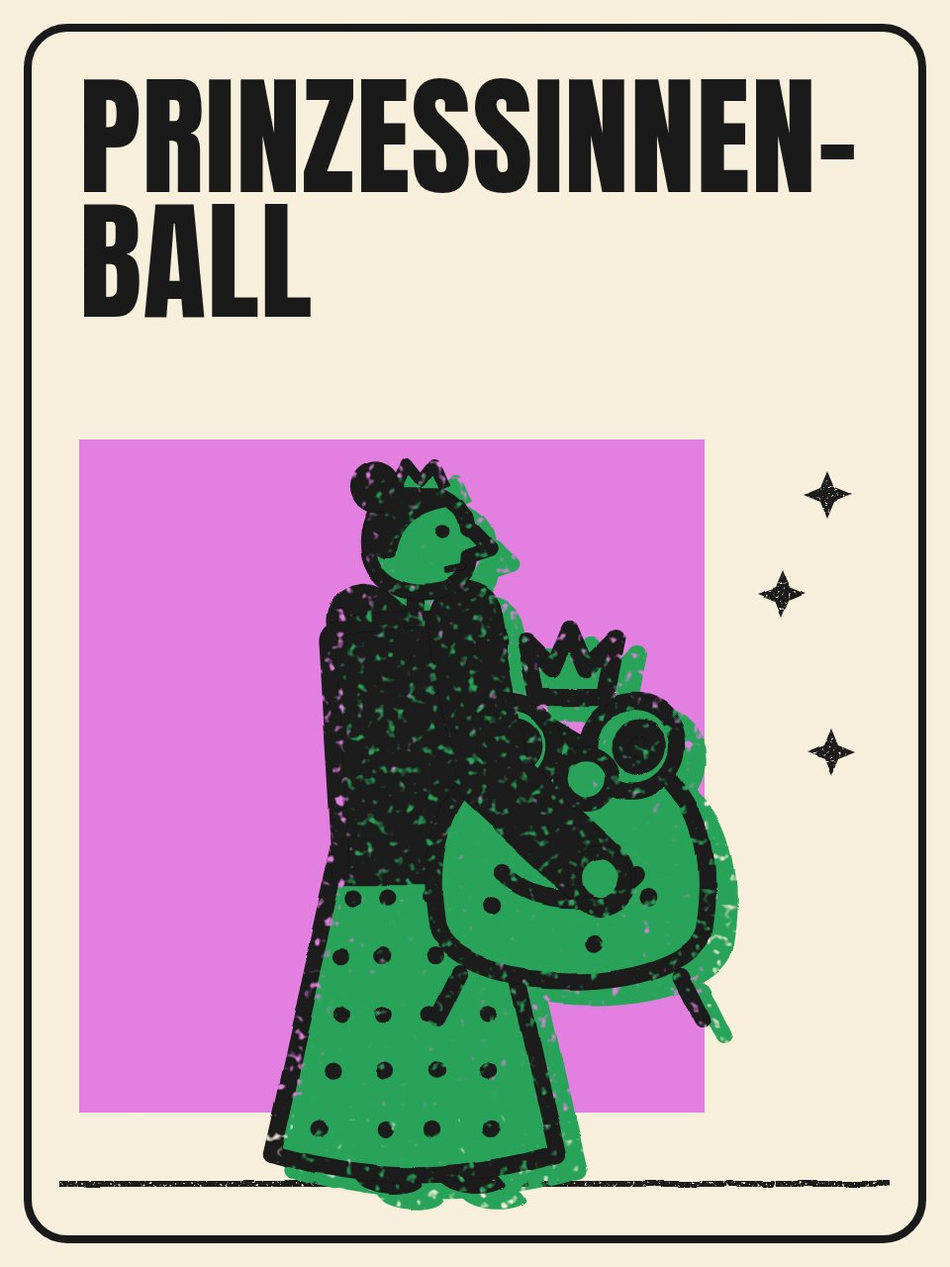
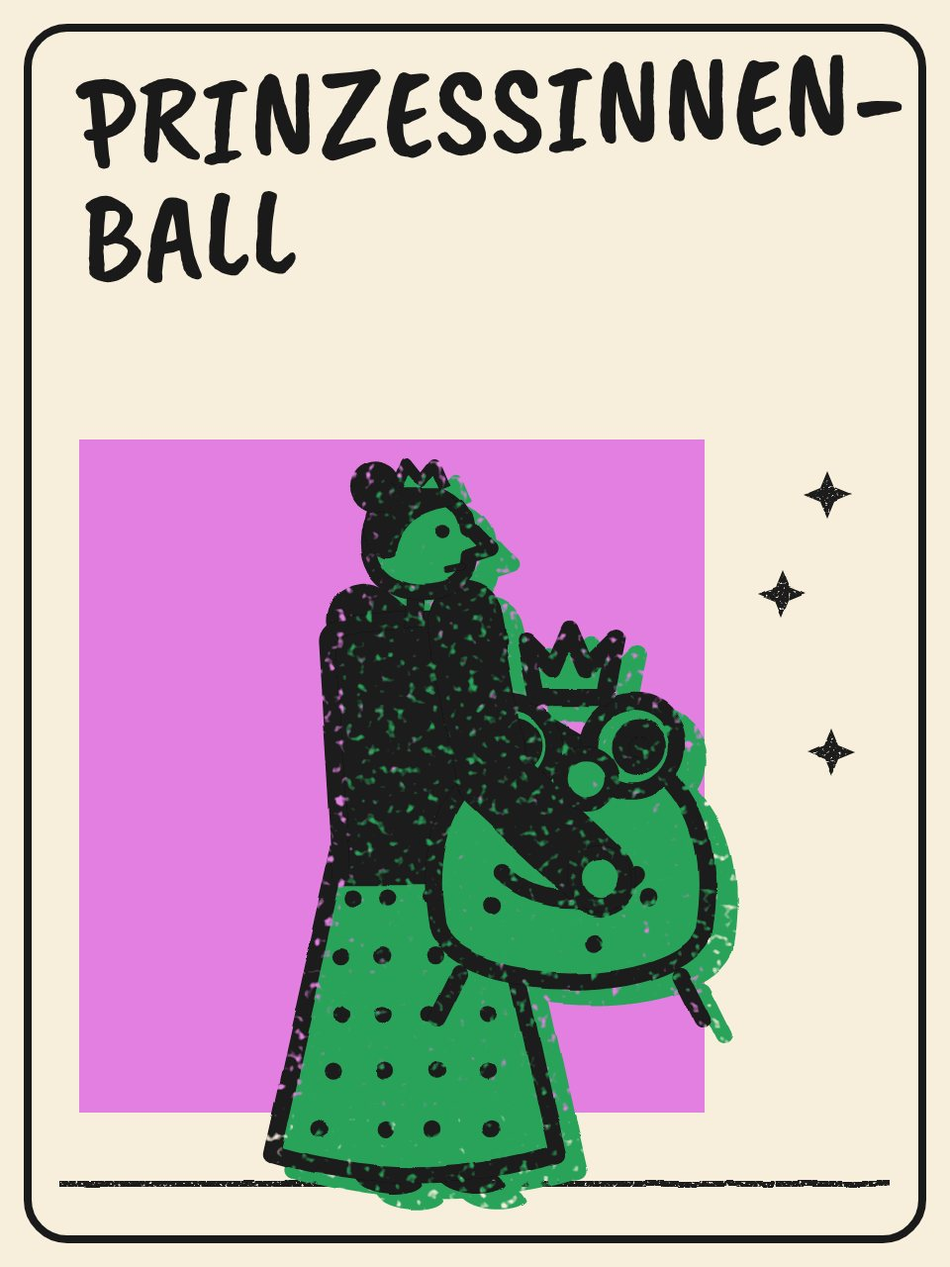
Typo Prinzessinnenball handschriftlich, Drei-Schwestern-Bilder zurück, Titel auf allen Covern, Drei-Schwestern-Bögen nach Regelheft
- Prinzessinnenball: Titel/Überschriften in Caveat Brush (Versalien) statt
  Anton, Cover-Titel handgeschrieben
- Drei Schwestern: Startbild und Cover wieder im Riso-Garten; App-Stil gilt
  nur für Typo/Oberfläche; Titel in DM Sans aufs Cover
- Grand Hotel Wien: Titel im Schild auf dem Hoteldach statt Sticker
- Drei Schwestern nach der Bogen-Abbildung im Regelheft (S. 2):
  Warenleiste 120 Felder mit Stern auf jedem 5., Kompost 40, Hauptstock
  Hof/Hof x2, Äpfel und Pfirsiche mit Wachstum, Himbeeren 1/2/3,
  Schuppen-Kästchen (Etiketten 4, Trimmer 3, Schubkarre 2, Mulch 1),
  Traktor 18 SP, Schnitzset 1 SP/Kürbis, Tulpe max 15; Rondell mit
  7 Feldern wie das Spielbrett

Claude-Session: https://claude.ai/code/session_01CofMMMC7P4qjXpmzNxeDE7

Changed region(s): [[0.0625, 0.0312, 0.9375, 0.25]]

diff --git a/three-sisters/index.html b/three-sisters/index.html
@@ -34,9 +34,8 @@ button{font:inherit;color:inherit;background:none;border:0;padding:0;cursor:poin
 .start{padding-top:8px;text-align:left}
 .start h1{font-size:clamp(40px,12vw,56px);line-height:.95;margin:0 0 6px;color:var(--navy);letter-spacing:-2px}
 .sub{font-size:13.5px;color:var(--muted);margin:0 0 14px}
-.hero{width:100%;margin:0 auto;aspect-ratio:360/420;border-radius:32px;overflow:hidden;position:relative}
-.hero .htxt{position:absolute;left:24px;right:24px;top:26px}
-.hero .htxt p{margin:0;font-size:12.5px;color:rgba(43,50,69,.8);letter-spacing:.2px}
+.hero{width:100%;margin:0 auto;aspect-ratio:360/300;border-radius:32px;overflow:hidden;background:#F8ECE1}
+.start h1{margin-top:18px}
 .panel{background:var(--card);border-radius:28px;padding:18px;text-align:left;margin:14px 0}
 .label{font-size:12.5px;font-weight:500;color:var(--muted);margin:0 0 8px}
 .input{width:100%;font:inherit;font-size:16px;padding:11px 14px;border:0;border-radius:14px;background:var(--bg);color:var(--ink);outline:2px solid transparent}
@@ -81,7 +80,7 @@ button{font:inherit;color:inherit;background:none;border:0;padding:0;cursor:poin
 .banner b{display:block}
 .banner .small{font-size:12.5px;color:var(--muted)}
 /* Gartenmarkt */
-.rondel{display:grid;grid-template-columns:repeat(3,1fr);gap:10px}
+.rondel{display:grid;grid-template-columns:repeat(4,minmax(0,1fr));gap:8px}
 .space{border-radius:24px;padding:8px 6px;text-align:center;min-height:124px;position:relative}
 .space .sic{width:44px;height:40px;margin:0 auto}
 .space .sn{font-size:11.5px;font-weight:700;line-height:1.15;min-height:26px;color:var(--ink)}
@@ -370,26 +369,26 @@ const gHead = (seed, o) => gardener(seed, o, '6 -4 88 70');
 // Ablauf, Aktionen, Ereignisse, Markttabelle, Stauden, Bienenstock, Hof,
 // Schuppen und Wertung folgen dem Regelheft. Der Aufdruck der Wertungsbögen
 // (Pflanzen je Zone, Kürbis-Ring mit Stauden, Hof-Reihen, Schuppen-Kästchen)
-// ist von Fotos der Original-Bögen abgelesen, die der Owner geschickt hat.
-// Unsicher abgelesen: Waren der beiden 2-hohen Kürbisse, die Sterne der
-// Warenleiste (Fotos nicht scharf genug, weiterhin geschätzt).
+// ist von der Bogen-Abbildung auf der Materialseite (S. 2) des Regelhefts der
+// Harvest Edition abgelesen; die Fotos des Owners zeigen teils eine ältere
+// Bogen-Version (Traktor 15, Mulch 2), maßgeblich ist das Regelheft.
 const ROUNDS = 8;
 const EVENTS = ['shed', 'rain', 'market', 'rain', 'market', 'shed', 'market', 'rain'];
 const EVENT_N = { shed: 'Schuppen: 1 Schuppenaktion', rain: 'Regen: Zonen 1–6 gießen', market: 'Bauernmarkt: Markttabelle' };
-// Aktionsrondell im Uhrzeigersinn; Feld 0 trägt die goldene Nadel (Start von Farmerin Edith)
+// Aktionsrondell im Uhrzeigersinn (7 Felder wie auf dem Spielbrett, Beispiel S. 4 des Regelhefts);
+// Feld 0 trägt die goldene Nadel (Start von Farmerin Edith)
 const RONDEL = [
   { k: 'ay', pin: 1, blue: 'apiary' },
   { k: 'pw' },
   { k: 'shed', tool: 'A' },
   { k: 'cg' },
   { k: 'ay', blue: 'yard' },
-  { k: 'market' },
   { k: 'shed', tool: 'B' },
-  { k: 'pw' },
+  { k: 'market' },
 ];
 const RONDEL_N = { ay: 'Bienenstock oder Hof', pw: 'Pflanzen oder Gießen', shed: 'Schuppenzeit', cg: '1 Kompost & 4 Waren', market: 'Bauernmarkt' };
 const RONDEL_BG = { ay: '#E8DCC0', pw: '#D5DDCF', shed: '#CFD9E4', cg: '#E3D2C6', market: '#E3D3DA' };
-const RING = [0, 1, 2, 3, 7, 6, 5, 4]; // Anzeige als Ring in zwei Reihen
+const RING = [1, 2, 3, 4, 0, 6, 5]; // Anzeige wie das Brett: oben 4 Felder, unten 3 (im Uhrzeigersinn)
 const DICE_BY_N = { 1: 4, 2: 4, 3: 5, 4: 6 };
 // Gartenzonen wie auf dem Bogen: jeder Mais (4 Kästchen) hat eine Bohne (2 Kästchen) daneben.
 // Die Kürbisse liegen als Ring am Gartenrand (im Uhrzeigersinn ab Zone 1 oben), zwischen je zwei
@@ -424,20 +423,20 @@ const EFFECT_N = {
 };
 const EFFECT_S = { yard: 'Hof', peach2: 'Pf+2', plantAny: '🌱', 'fruit:apple': 'Apf', 'fruit:blackberry': 'Bro', 'fruit:raspberry': 'Him', 'fruit:peach': 'Pfi', compost1: '+1K', compost2: '+2K', irisAdj: '±1', apiary2: '2🐝', goods2: '+2W', shed: 'Sch', yard1: 'Hof', yard2: '2Hof', vp3: '3', yard3: '3Hof', pw2: '2🌱' };
 // Bienenstock: erst der Hauptstock, danach drei Abschnitte in beliebiger Reihenfolge
-const HIVE = ['', 'yard1', '', 'yard1', 'yard2'];
+const HIVE = ['', 'yard1', '', 'yard2', ''];
 const WAX_GOODS = [2, 4, 4], WAX_VP = [2, 2, 5], HONEY_VP = [5, 5, 8];
 const SPLIT = ['vp3', 'plantAny', 'yard3', 'pw2'];
 const API_N = { wax: 'Wachs', honey: 'Honig', split: 'Ableger' };
 // Hof: Reihen von links nach rechts, jedes Kästchen ist eine Ernte
 // steps: g = Wachstum (Quadrat auf dem Bogen), h = Ernte (Kreis)
 const FRUITS = [
-  { k: 'apple', n: 'Äpfel', one: 'Apfel', steps: 'ghghhhhh', tx: '3 SP je Apfel-Ernte; die ersten beiden Bäume brauchen je 1 Wachstum' },
+  { k: 'apple', n: 'Äpfel', one: 'Apfel', steps: 'hghhhhh', tx: '3 SP je Apfel; vor der 2. Ernte 1 Wachstum' },
   { k: 'blackberry', n: 'Brombeeren', one: 'Brombeere', steps: 'hhhhhhh', tx: '2 SP je Brombeere' },
-  { k: 'peach', n: 'Pfirsiche', one: 'Pfirsich', steps: 'ghghghgh', tx: 'jeder Baum: 1 Wachstum, dann Ernte = 1 Gießaktion, Zone frei' },
-  { k: 'raspberry', n: 'Himbeeren', one: 'Himbeere', steps: 'hhhhhhhhh', tx: 'Ernte: +3 Waren · 1/2/5 SP nach 3/6/9 Ernten' },
+  { k: 'peach', n: 'Pfirsiche', one: 'Pfirsich', steps: 'hghghgh', tx: 'Ernte: 1 Gießaktion, Zone frei; zwischen den Ernten je 1 Wachstum' },
+  { k: 'raspberry', n: 'Himbeeren', one: 'Himbeere', steps: 'hhhhhhhhh', tx: 'Ernte: +3 Waren · 1/2/3 SP nach 3/6/9 Ernten' },
 ];
 FRUITS.forEach(f => { f.len = f.steps.length; });
-const RASP_VP = { 3: 1, 6: 2, 9: 5 };
+const RASP_VP = { 3: 1, 6: 2, 9: 3 };
 const harvests = (p, k) => [...FRUITS.find(f => f.k === k).steps.slice(0, Math.max(0, p.yard[k].n))].filter(c => c === 'h').length;
 // Schuppen: Satz A (Schere) und B (Mäher) entsprechen den Listen von Farmerin Edith
 const SHED = [
@@ -447,23 +446,23 @@ const SHED = [
   { k: 'bowl', n: 'Obstschale', len: 3, vp: 0, set: 'A', tx: '1/4/7/10 SP für 1/2/3/4 Obstsorten.' },
   { k: 'barrel', n: 'Regentonne', len: 2, vp: 2, set: 'A', tx: 'Nach jedem Regen: 1 Gießaktion, Zone frei.' },
   { k: 'dish', n: 'Auflaufform', len: 2, vp: 0, set: 'A', tx: '1 SP je 2 geerntete Bohnen.' },
-  { k: 'labels', n: 'Schicke Etiketten', len: 3, vp: 2, set: 'B', tx: 'Bauernmarkt: +1 Staudenaktion.' },
+  { k: 'labels', n: 'Schicke Etiketten', len: 4, vp: 2, set: 'B', tx: 'Bauernmarkt: +1 Staudenaktion.' },
   { k: 'hivetool', n: 'Stockmeißel', len: 3, vp: 2, set: 'B', tx: 'Krokus-Aktion: +1 Bienenstock-Aktion.' },
   { k: 'pitchfork', n: 'Heugabel', len: 1, vp: 1, set: 'B', tx: 'Hortensien-Aktion: +1 Kompost.' },
-  { k: 'trimmer', n: 'Rasentrimmer', len: 4, vp: 6, set: 'B', tx: 'Kein Effekt.' },
-  { k: 'wheelbarrow', n: 'Schubkarre', len: 3, vp: 3, set: 'B', tx: 'Jede Schuppenaktion: +1 Ware.' },
-  { k: 'mulch', n: 'Mulch', len: 2, vp: 0, set: 'B', tx: 'Statt der Rondellaktion 2 Staudenaktionen.' },
-  { k: 'tractor', n: 'Neuer Traktor', len: 6, vp: 15, set: '', tx: 'Kein Effekt.' },
-  { k: 'carving', n: 'Schnitzset', len: 4, vp: 0, set: '', tx: 'Am Ende 1 SP je geerntetem Kürbis in deiner längsten Kürbis-Kette im Ring.' },
+  { k: 'trimmer', n: 'Rasentrimmer', len: 3, vp: 6, set: 'B', tx: 'Kein Effekt.' },
+  { k: 'wheelbarrow', n: 'Schubkarre', len: 2, vp: 3, set: 'B', tx: 'Jede Schuppenaktion: +1 Ware.' },
+  { k: 'mulch', n: 'Mulch', len: 1, vp: 1, set: 'B', tx: 'Rondellaktion verfallen lassen, dafür 1 Staudenaktion.' },
+  { k: 'tractor', n: 'Glänzender neuer Traktor', len: 6, vp: 18, set: '', tx: 'Kein Effekt.' },
+  { k: 'carving', n: 'Kürbis-Schnitzset', len: 3, vp: 0, set: '', tx: 'Am Ende 1 SP je geerntetem Kürbis.' },
   { k: 'spreader', n: 'Sämaschine', len: 4, vp: 2, set: '', tx: 'Beim Pflanzen: 1 Pflanze mehr (bis zu 3).' },
 ];
 const SHED_BY = k => SHED.find(s => s.k === k);
 // Warenleiste: Sterne bringen eine Bonusaktion; Markttabelle nach Warenstand
-const GOODS_MAX = 80;
-const STARS = [6, 12, 18, 25, 32, 40, 48, 56, 64, 72];
+const GOODS_MAX = 120;
+const STARS = Array.from({ length: 24 }, (_, i) => (i + 1) * 5); // Stern auf jedem 5. Feld (Bogen: 15 Felder je Zeile)
 const MARKET = [[70, ['per', 'per', 'bonus']], [50, ['per', 'per', 'yard']], [35, ['per', 'per', 'compost']], [20, ['per', 'yard']], [4, ['per', 'compost']], [0, ['compost']]];
 const MARKET_N = { per: 'Staude', yard: 'Hof', compost: 'Kompost', bonus: 'Bonus' };
-const COMPOST_MAX = 20;
+const COMPOST_MAX = 40;
 const SOLO_CHART = [[150, 'Du bekommst deine eigene TV-Show!'], [125, 'Dein Gartenbuch ist ein Bestseller!'], [100, 'Du bist eine Internet-berühmte Garten-Bloggerin!'], [80, 'Landesmeisterin im Gärtnern!'], [60, 'Deine Künste bringen dir ein blaues Band!'], [40, 'Du bist bereit für die Kreismesse!'], [0, 'Nächstes Mal klappt es besser!']];
 const BOT_NAMES = [
   ['Tante Rübe', { plant: 'tulpe', pants: '#F07A2A', pat: 'dots' }],
@@ -553,24 +552,6 @@ function dieSvg(v, fill = '#FFFBF5') {
   return `<svg viewBox="0 0 24 25" aria-label="Würfel ${v}"><rect x="2" y="3.5" width="20" height="20" rx="6" fill="${shade(fill === '#FFFBF5' ? '#EAD9C8' : fill, 0.85)}"/><rect x="2" y="2" width="20" height="20" rx="6" fill="${fill}"/>${Pp[v].map(([x, y]) => `<circle cx="${x}" cy="${y}" r="2" fill="${pip}"/>`).join('')}</svg>`;
 }
 function zoneNum(z) { const cols = [C.tomato, C.leaf, C.mustard, C.blue, C.rose, C.forest]; return `<svg viewBox="0 0 26 26" class="ill"><circle cx="13" cy="13" r="12" fill="${cols[z]}"/><text x="13" y="18" text-anchor="middle" font-family="Fredoka,sans-serif" font-weight="700" font-size="15" fill="#fff">${z + 1}</text></svg>`; }
-// Startbild im App-Stil: gedeckte Farbbänder, flache geometrische Scheune, kleine Gärtnerinnen am Horizont
-function bandsSvg() {
-  const bands = [[0, 64, '#7FA3C6'], [64, 124, '#88AACA'], [124, 176, '#95B1CC'], [176, 216, '#A6B9CC'], [216, 246, '#B9C3CD'], [246, 264, '#CAC5C6'], [264, 280, '#DCC6BB']];
-  const field = [[288, 300, '#5E6E9A'], [300, 308, '#A496AB'], [308, 322, '#6C7BA6'], [322, 330, '#B7AABD'], [330, 346, '#7584AD'], [346, 356, '#C2B7C5'], [356, 420, '#8A7867']];
-  const fig = (o, x, w) => gardener('band' + o.plant, o).replace('<svg viewBox="0 0 100 130" class="ill"', `<svg viewBox="0 0 100 130" x="${x}" y="${286 - w * 1.24}" width="${w}" height="${w * 1.3}" overflow="visible"`);
-  const corn = x => `<rect x="${x - 1.2}" y="306" width="2.4" height="44" fill="#4B3C33"/><path d="M${x},318 l-9,-6 l0,4 Z M${x},330 l9,-6 l0,4 Z M${x},340 l-8,-5 l0,4 Z" fill="#4B3C33"/><rect x="${x - 2.4}" y="300" width="4.8" height="9" fill="#E0B04A"/>`;
-  return `<svg viewBox="0 0 360 420" class="ill" preserveAspectRatio="xMidYMid slice" role="img" aria-label="Illustration: flache Landschaft in Farbbändern mit roter Scheune, Maisstauden und drei kleinen Gärtnerinnen am Horizont">
-    ${bands.map(([a, b, c]) => `<rect x="0" y="${a}" width="360" height="${b - a}" fill="${c}"/>`).join('')}
-    <rect x="0" y="280" width="360" height="8" fill="#2B3245"/>
-    ${field.map(([a, b, c]) => `<rect x="0" y="${a}" width="360" height="${b - a}" fill="${c}"/>`).join('')}
-    <rect x="208" y="246" width="42" height="36" fill="#A8382F"/>
-    <path d="M250,246 L278,226 L306,246 V282 H250 Z" fill="#2A1E1E"/>
-    <path d="M208,246 L236,226 L278,226 L250,246 Z" fill="#E5C9BC"/>
-    <rect x="72" y="268" width="26" height="14" fill="#3B3F55"/><path d="M72,268 L85,259 L98,268 Z" fill="#C9B8A6"/>
-    ${fig({ plant: 'mais', pants: '#E0B04A', pat: 'stripes', pose: 0 }, 128, 22)}${fig({ plant: 'bohne', pants: '#5E6E9A', pat: 'stripes', pose: 1 }, 150, 24)}${fig({ plant: 'kuerbis', pants: '#A8382F', pat: 'dots', pose: 0 }, 174, 22)}
-    ${[34, 48, 62, 300, 314, 328].map(corn).join('')}
-  </svg>`;
-}
 function heroSvg() {
   const fig = (o, x, y, w) => gardener('hero' + o.plant, o).replace('<svg viewBox="0 0 100 130" class="ill"', `<svg viewBox="0 0 100 130" x="${x}" y="${y}" width="${w}" height="${w * 1.3}" overflow="visible"`);
   const dots = (cx, cy, rx, ry, col, n, seed) => { const r = prng(seed); let s = ''; for (let i = 0; i < n; i++) { const a = r() * Math.PI * 2, d = Math.sqrt(r()); s += `<circle cx="${(cx + Math.cos(a) * rx * d).toFixed(1)}" cy="${(cy + Math.sin(a) * ry * d).toFixed(1)}" r="${2.6 + r() * 1.6}" fill="${col}"/>`; } return s; };
@@ -746,14 +727,6 @@ function growCrop(p, z, k, i) {
   }
 }
 function pumpDone(p, r) { const [z, i] = PUMP_LOC[r]; return p.g[z].s[i] === PUMPS[r].h; }
-// längste Kette geernteter Nachbar-Kürbisse im Ring (Schnitzset)
-function pumpChain(p) {
-  const n = PUMPS.length, d = range(n).map(r => pumpDone(p, r));
-  if (d.every(Boolean)) return n;
-  let best = 0, cur = 0;
-  for (let k = 0; k < 2 * n; k++) { cur = d[k % n] ? cur + 1 : 0; best = Math.max(best, Math.min(cur, n)); }
-  return best;
-}
 const plantMax = p => shedDone(p, 'spreader') ? 3 : 2;
 function doPlant(p, z, list) {
   let n = 0;
@@ -786,12 +759,12 @@ function endScore(p) {
     zo.b.forEach(h => { if (h === BEAN_H) { row.garden += 1; beans++; } });
   });
   const yardItems = FRUITS.reduce((s, f) => s + harvests(p, f.k), 0);
-  for (const f of FLOWERS) if (p.per[f].n >= PER_LEN) row.per += PER[f].vp === 'yard' ? yardItems : PER[f].vp;
+  for (const f of FLOWERS) if (p.per[f].n >= PER_LEN) row.per += PER[f].vp === 'yard' ? Math.min(15, yardItems) : PER[f].vp;
   row.api = WAX_VP.slice(0, p.api.wax.n).reduce((a, b) => a + b, 0) + HONEY_VP.slice(0, p.api.honey.n).reduce((a, b) => a + b, 0) + (p.api.split.n >= 1 ? 3 : 0);
   row.yard = harvests(p, 'apple') * 3 + harvests(p, 'blackberry') * 2 + Object.entries(RASP_VP).reduce((s, [k, v]) => s + (harvests(p, 'raspberry') >= +k ? v : 0), 0);
   for (const it of SHED) if (shedDone(p, it.k)) {
     if (it.k === 'bowl') row.shed += [0, 1, 4, 7, 10][FRUITS.filter(f => harvests(p, f.k) > 0).length];
-    else if (it.k === 'carving') row.shed += pumpChain(p);
+    else if (it.k === 'carving') row.shed += range(PUMPS.length).filter(r => pumpDone(p, r)).length;
     else if (it.k === 'dish') row.shed += Math.floor(beans / 2);
     else row.shed += it.vp;
   }
@@ -872,7 +845,7 @@ function taskOptions(p, t) {
     case 'bonus': out = perOpts(p).concat(apiaryOpts(p), yardOpts(p), shedOpts(p)); break;
     case 'rain': out = [{ o: 'rain', ic: 'regen', label: 'Alle Zonen 1–6 gießen', sub: shedDone(p, 'barrel') ? 'danach Regentonne: 1 Gießaktion' : 'Zone für Zone, von 1 bis 6', apply: q => { for (let z = 0; z < 6; z++) doWater(q, z); if (shedDone(q, 'barrel')) front(q, { t: 'waterAny', src: 'Regentonne' }); } }]; break;
   }
-  if (t.r && shedDone(p, 'mulch') && FLOWERS.some(f => p.per[f].n < p.per[f].cap)) out.push({ o: 'mulch', ic: 'mulch', label: 'Mulch: stattdessen 2 Staudenaktionen', sub: 'Rondellaktion verfällt', apply: q => front(q, { t: 'per', src: 'Mulch' }, { t: 'per', src: 'Mulch' }) });
+  if (t.r && shedDone(p, 'mulch') && FLOWERS.some(f => p.per[f].n < p.per[f].cap)) out.push({ o: 'mulch', ic: 'mulch', label: 'Mulch: stattdessen 1 Staudenaktion', sub: 'Rondellaktion verfällt', apply: q => front(q, { t: 'per', src: 'Mulch' }) });
   return out;
 }
 function resolveTask(p, opt) { const t = p.tasks.shift(); if (opt) opt.apply(p); return t; }
@@ -1086,7 +1059,7 @@ function recordPlay() {
 }
 function spielregalProfiles() { try { return (JSON.parse(localStorage.getItem('spielregal:players') || '[]') || []).filter(p => p && p.name).map(p => p.name); } catch (e) { return []; } }
 const KEY = 'drei-schwestern-v1';
-const SAVE_V = 3; // v3: Bögen nach Fotos der Original-Bögen (Kürbis-Ring, Hof, Schuppen), ältere Stände sind nicht kompatibel
+const SAVE_V = 4; // v4: Bögen nach der Abbildung im Regelheft (Kürbis-Ring, Hof, Schuppen, Warenleiste), ältere Stände sind nicht kompatibel
 // Speichern & Verlassen: Der Spielstand wird ohnehin nach jeder Aktion
 // gespeichert; „verlassen“ führt zurück zum Startbildschirm, von dem aus die
 // Partie mit „Fortsetzen“ weiterläuft.
@@ -1152,8 +1125,9 @@ function viewStart() {
   const saved = load(); const st = U.setup; const prof = spielregalProfiles();
   return `<div class="wrap start">
     <div class="startbar"><a class="icobtn leave" href="../" aria-label="Beenden und zurück zu Spielregal"><svg viewBox="0 0 20 20" width="13" height="13" aria-hidden="true"><path d="M4.5 4.5l11 11M15.5 4.5l-11 11" stroke="currentColor" stroke-width="2.6" stroke-linecap="round"/></svg><span>Beenden</span></a></div>
-    <div class="hero">${bandsSvg()}<div class="htxt"><h1 class="hand">Drei Schwestern.</h1><p>8 Runden · Harvest Edition · Roll &amp; Write</p></div></div>
-    <p class="sub" style="margin-top:14px">Mais, Bohnen &amp; Kürbis: das Roll &amp; Write nach den Regeln von <i>Three Sisters</i> (Harvest Edition).</p>
+    <div class="hero">${heroSvg()}</div>
+    <h1 class="hand">Drei Schwestern.</h1>
+    <p class="sub">8 Runden · Harvest Edition · Roll &amp; Write<br>Mais, Bohnen &amp; Kürbis: das Roll &amp; Write nach den Regeln von <i>Three Sisters</i> (Harvest Edition).</p>
     ${saved && saved.screen === 'game' ? `<button class="btn blue wide" data-a="resume">Partie fortsetzen · Runde ${saved.round}/${ROUNDS}</button><p style="margin:6px 0 0;font-size:12.5px;opacity:.75">${saved.savedAt ? `Gespeichert ${savedLabel(saved)} · ` : ''}<button class="link" data-a="discard" style="font-size:12.5px">verwerfen</button></p>` : ''}
     <div class="panel">
       <p class="label">Dein Name</p>
@@ -1302,7 +1276,7 @@ function rulesHtml() {
   <h4>Solo gegen Farmerin Edith</h4>
   <p>Du und Edith nehmt abwechselnd je zwei Würfel (ungerade Runden beginnst du). Die Startperson muss als zweiten Würfel den niedrigsten übrigen nehmen. Edith streicht zuerst eine ungepflanzte Pflanze in der Zone ihres Würfels (Kürbisse, dann Mais, dann Bohnen), dann je nach Feld: noch eine Pflanze, einen Schuppen-Gegenstand, einen Stern der Warenleiste, ein Feld im Bienenstock oder Hof oder das oberste Feld einer Staude. Ereignisse betreffen nur dich.</p>
   <h4>Unterschiede zum Original</h4>
-  <p style="font-size:13px">Ablauf, Aktionen, Ereignisse, Markttabelle, Stauden-Boni, Bienenstock, Hof, Schuppen-Gegenstände, Wertung und der Solomodus mit Edith folgen der Anleitung der Harvest Edition. Den Aufdruck der Wertungsbögen nennt die Anleitung nicht; er ist von Fotos der Original-Bögen abgelesen: Pflanzen je Zone (3/5/4/3/5/4 Mais, je eine Bohne), der Ring aus 12 Kürbissen mit den Stauden dazwischen, die Hof-Reihen (Äpfel und Pfirsiche mit Wachstumsfeldern) und die Schuppen-Gegenstände samt Traktor, Schnitzset und Sämaschine. Weiterhin geschätzt: die Waren der beiden 2-hohen Kürbisse, die Sterne der Warenleiste, die Boni im Hauptstock und die Lage der Rondellfelder. Im Solomodus wählt Edith den Mais automatisch. Illustrationen sind eigene Entwürfe.</p>`;
+  <p style="font-size:13px">Ablauf, Aktionen, Ereignisse, Markttabelle, Stauden-Boni, Bienenstock, Hof, Schuppen-Gegenstände, Wertung und der Solomodus mit Edith folgen der Anleitung der Harvest Edition. Den Aufdruck der Wertungsbögen nennt die Anleitung nicht; er ist von Fotos der Original-Bögen abgelesen: Pflanzen je Zone (3/5/4/3/5/4 Mais, je eine Bohne), der Ring aus 12 Kürbissen mit den Stauden dazwischen, die Hof-Reihen (Äpfel und Pfirsiche mit Wachstumsfeldern), die Schuppen-Gegenstände samt Traktor, Schnitzset und Sämaschine, die Warenleiste (120 Felder, Stern auf jedem 5.) und 40 Kompostfelder – abgelesen von der Bogen-Abbildung im Regelheft. Das Rondell hat wie das Spielbrett 7 Felder. Im Solomodus wählt Edith den Mais automatisch. Illustrationen sind eigene Entwürfe.</p>`;
 }
 function viewSheet() {
   const sh = U.sheet; if (!sh) return '';

diff --git a/rebel-princess/index.html b/rebel-princess/index.html
@@ -9,7 +9,7 @@
 <title>Prinzessinnenball</title>
 <link rel="preconnect" href="https://fonts.googleapis.com">
 <link rel="preconnect" href="https://fonts.gstatic.com" crossorigin>
-<link href="https://fonts.googleapis.com/css2?family=Anton&family=Caveat+Brush&family=Space+Mono:wght@400;700&display=swap" rel="stylesheet">
+<link href="https://fonts.googleapis.com/css2?family=Caveat+Brush&family=Space+Mono:wght@400;700&display=swap" rel="stylesheet">
 <style>
 :root{--ink:#1A1A1A;--paper:#F8EEDC;--white:#FFF8EC;--gray:#EADFCB;--muted:#6b665d;--pink:#FF5FA8;--peach:#F6B48F;--blue:#4A8FE0;--orange:#F08A2E;--stamp:#D2452B}
 *{box-sizing:border-box;-webkit-tap-highlight-color:transparent}
@@ -46,7 +46,7 @@ button{font:inherit;color:inherit;background:none;border:0;padding:0;cursor:poin
 .icobtn.leave{width:auto;padding:0 12px 0 10px;border-radius:999px;display:flex;align-items:center;gap:6px;font-size:13px;white-space:nowrap}
 .backlink{display:block;text-align:left;margin:4px 0 2px;font-weight:800;font-size:13.5px;color:inherit;text-decoration:none;opacity:.75}
 .rule{flex:1;border:2px solid var(--stamp);border-radius:8px;background:rgba(255,248,236,.6);color:var(--stamp);padding:4px 8px;font-size:11.5px;line-height:1.2;text-align:left;min-width:0;transform:rotate(-1.2deg)}
-.rule b{font-family:"Anton",Impact,sans-serif;text-transform:uppercase;font-size:13px;font-weight:400;letter-spacing:.4px;display:block;line-height:1.1}
+.rule b{font-family:"Caveat Brush",cursive;text-transform:uppercase;font-size:15px;font-weight:400;letter-spacing:.4px;display:block;line-height:1.1}
 /* Tisch */
 .opps{display:grid;grid-template-columns:1fr 1fr;gap:6px;margin-top:10px}
 .opp{display:flex;align-items:center;gap:6px;border:2px solid var(--ink);border-radius:14px;background:var(--white);padding:4px 6px 4px 4px;text-align:left;width:100%;min-width:0}
@@ -157,11 +157,13 @@ button{font:inherit;color:inherit;background:none;border:0;padding:0;cursor:poin
 .coach .cwait{font-weight:800;letter-spacing:3px}
 .tut-hl{outline:3px dashed var(--ink)!important;outline-offset:4px;animation:tutp 1s ease-in-out infinite;position:relative;z-index:6;border-radius:12px}
 @keyframes tutp{50%{outline-offset:7px}}
-.start h1,.sech h2,.round,.sheet h3,.rules h4,.podium .pl{font-family:"Anton",Impact,"Arial Narrow",sans-serif!important;font-weight:400!important;text-transform:uppercase;letter-spacing:.4px}
-.round{font-size:17px}
+/* Plakat-Handschrift wie die handgezeichneten Verpackungs-Titel der Referenz */
+.start h1,.sech h2,.round,.sheet h3,.rules h4,.podium .pl{font-family:"Caveat Brush","Comic Sans MS",cursive!important;font-weight:400!important;text-transform:uppercase;letter-spacing:.5px}
+.start h1{font-size:clamp(46px,14vw,68px);line-height:.9}
+.round{font-size:21px}
 .rule{min-width:80px;display:-webkit-box;-webkit-box-orient:vertical;-webkit-line-clamp:4;overflow:hidden}
-.sech h2{font-size:24px}
-.sheet h3{font-size:26px}
+.sech h2{font-size:28px}
+.sheet h3{font-size:30px}
 .why{position:relative;margin:10px 2px 0;font-size:12.5px;line-height:1.4;background:var(--white);border:1.5px solid var(--ink);border-radius:10px;padding:6px 9px}
 </style>
 </head>

diff --git a/CLAUDE.md b/CLAUDE.md
@@ -79,8 +79,8 @@ des jeweiligen Spiels treffen:
 | Spiel (Ordner) | Referenzen des Owners | Stilregeln |
 |---|---|---|
 | Grand Hotel Wien (`grand-austria-hotel/`) | Schwarz-weiße „Café People“-Strichfiguren (gilt laut Owner weiterhin auch hier, nur anders umgesetzt); bunte Sticker-Figuren mit Mustern; kreidig gemalte Figur mit Kobaltblau/Pink/Gelb | **Mix:** schwarze Tuschekonturen mit leichtem Zittern (`#wob`), gefüllt mit Kreidefarben (Rot, Kobaltblau, Senfgelb, Pink, Grün), Muster auf Kleidung, Körnung; harte Kanten mit Versatzschatten; Schriften Caveat Brush + Space Mono |
-| Prinzessinnenball (`rebel-princess/`) | (1) Gemalte Kreideskizze: Profil mit spitzer Nase, geschlossene Augen, schwarze Haarfläche; (2) „Café People“-Strichfiguren (vom Owner ausdrücklich kombiniert gewünscht) | **Kombination, schwarz-weiß:** Figuren wie Café People (ganze Körper, kleiner Profilkopf, breite schwarze Pullover/Röcke, Fausthände, Posen wie umarmen/tragen/knien/lümmeln, übergroße Gegenstände: Riesenapfel, Riesenfrosch, Riesenring …), gezeichnet im Kreidestrich mit Papiersprenkeln (`#crayon`); handgezogene Kartenrahmen (`#rough`), Prinzen als weiße Kreide auf Schwarz, warmer Papierton (jetzt `#F8EEDC`); Figuren schwarz-weiß, aber **Kartenfarben farbcodiert** (Owner-Wunsch für lesbare Stiche): Feen blau `#DCE7F7`/`#2F5BB0`, Haustiere grün `#DCEDD2`/`#3B8546`, Königinnen rot `#F8DCD3`/`#C4452E`, Prinzen schwarz mit Rosa `#F4A6B8`. **Zweiter Owner-Stil, ausdrücklich ergänzend („weiterer Style“):** Plakat-Illustrationen mit kräftigen Farbblöcken auf Cremepapier `#F8EEDC` und schwarzem Strich, Farbfläche leicht versetzt gedruckt (Banane/Taube). Umsetzung: Karten sind Creme mit Farbblock je Farbe (Feen `#4A8FE0`, Haustiere `#2BA35A`, Königinnen `#F0643C`, Prinzen schwarz); Figurenflächen in einer Pop-Farbe mit versetzter Silhouette (`popify`, Feen Creme, Haustiere Gelb, Königinnen Rosa, Prinzen Pink). Prinzessinnen auf wechselnden Farbblöcken (`POP_PAIRS`). Titel in Anton (Versalien), Rundenkarte als roter Stempel `#D2452B`, Versatzschatten in Pink/Blau statt Grau; Tisch als Pfirsich-Block `#F6B48F` |
-| Drei Schwestern (`three-sisters/`) | Frau mit Blumenstrauß statt Kopf und gestreifter Hose; „Garden Party“-Pack mit flachen Pflanzen und Tieren; Risograph-Gartenlandschaft | **Flach ohne Konturen:** keine schwarzen Umrisse, Details im dunkleren Ton derselben Farbe, Risograph-Körnung mit weichen Kanten (`#riso`), Pfirsich-Creme-Grund `#F8ECE1`, frische Garten-Palette; Figuren mit Pflanzenstrauß statt Kopf; Illustrationen weiter mit Fredoka-Anmutung. **App-Oberfläche** nach Owner-Referenzen „App Style für Three Sisters“ (minimalistische Homescreens): gedeckte Farbbänder (Staubblau `#7FA3C6`…`#B9C3CD`, Pfirsich `#DCC6BB`, Schiefer `#5E6E9A`, Mauve `#A496AB`, Erde `#8A7867`), flache geometrische Landschaft mit Scheune (Rot `#A8382F`/fast Schwarz) im Startbild (`bandsSvg`), lichtgrauer Grund `#E9E6E8`, Karten `#F7F5F6` ohne 3D-Schatten, Marineblau `#2B3245` für Schrift, Knöpfe und „du bist dran“ (Staubblau), gedämpfte Zonen-/Rondellflächen; große klare Titel mit Punkt („Drei Schwestern.“), Schrift DM Sans |
+| Prinzessinnenball (`rebel-princess/`) | (1) Gemalte Kreideskizze: Profil mit spitzer Nase, geschlossene Augen, schwarze Haarfläche; (2) „Café People“-Strichfiguren (vom Owner ausdrücklich kombiniert gewünscht) | **Kombination, schwarz-weiß:** Figuren wie Café People (ganze Körper, kleiner Profilkopf, breite schwarze Pullover/Röcke, Fausthände, Posen wie umarmen/tragen/knien/lümmeln, übergroße Gegenstände: Riesenapfel, Riesenfrosch, Riesenring …), gezeichnet im Kreidestrich mit Papiersprenkeln (`#crayon`); handgezogene Kartenrahmen (`#rough`), Prinzen als weiße Kreide auf Schwarz, warmer Papierton (jetzt `#F8EEDC`); Figuren schwarz-weiß, aber **Kartenfarben farbcodiert** (Owner-Wunsch für lesbare Stiche): Feen blau `#DCE7F7`/`#2F5BB0`, Haustiere grün `#DCEDD2`/`#3B8546`, Königinnen rot `#F8DCD3`/`#C4452E`, Prinzen schwarz mit Rosa `#F4A6B8`. **Zweiter Owner-Stil, ausdrücklich ergänzend („weiterer Style“):** Plakat-Illustrationen mit kräftigen Farbblöcken auf Cremepapier `#F8EEDC` und schwarzem Strich, Farbfläche leicht versetzt gedruckt (Banane/Taube). Umsetzung: Karten sind Creme mit Farbblock je Farbe (Feen `#4A8FE0`, Haustiere `#2BA35A`, Königinnen `#F0643C`, Prinzen schwarz); Figurenflächen in einer Pop-Farbe mit versetzter Silhouette (`popify`, Feen Creme, Haustiere Gelb, Königinnen Rosa, Prinzen Pink). Prinzessinnen auf wechselnden Farbblöcken (`POP_PAIRS`). Titel und Überschriften in handgeschriebener Plakat-Schrift Caveat Brush in Versalien (Owner: „muss mehr handwritten sein“, statt Anton), Rundenkarte als roter Stempel `#D2452B`, Versatzschatten in Pink/Blau statt Grau; Tisch als Pfirsich-Block `#F6B48F` |
+| Drei Schwestern (`three-sisters/`) | Frau mit Blumenstrauß statt Kopf und gestreifter Hose; „Garden Party“-Pack mit flachen Pflanzen und Tieren; Risograph-Gartenlandschaft | **Flach ohne Konturen:** keine schwarzen Umrisse, Details im dunkleren Ton derselben Farbe, Risograph-Körnung mit weichen Kanten (`#riso`), Pfirsich-Creme-Grund `#F8ECE1`, frische Garten-Palette; Figuren mit Pflanzenstrauß statt Kopf; Illustrationen weiter mit Fredoka-Anmutung. **App-Oberfläche** nach Owner-Referenzen „App Style für Three Sisters“ (minimalistische Homescreens): gedeckte Farbbänder (Staubblau `#7FA3C6`…`#B9C3CD`, Pfirsich `#DCC6BB`, Schiefer `#5E6E9A`, Mauve `#A496AB`, Erde `#8A7867`), – gilt **nur für Typografie und Oberfläche** (Owner: „Es geht um die App-Typo, Minimalismus“); Startbild, Cover und alle Illustrationen bleiben im Riso-Gartenstil – lichtgrauer Grund `#E9E6E8`, Karten `#F7F5F6` ohne 3D-Schatten, Marineblau `#2B3245` für Schrift, Knöpfe und „du bist dran“ (Staubblau), gedämpfte Zonen-/Rondellflächen; große klare Titel mit Punkt („Drei Schwestern.“), Schrift DM Sans |
 | Landgut (`countryside/`, Original „Countryside“) | Owner-Referenzen „Stil für Landgut“ (ersetzt den früheren Aquarell-/Ghibli-Stil): flache Gouache-Wildblumenwiese (Mohn, Tulpen, Margeriten, Lavendel) vor blassblauen Hügeln; Figuren zwischen übergroßen Blumen mit Ringelkleidung; zwei Umarmende mit Strauß vor dichtem Blumenmuster auf Petrol; drei Freunde in körnigem Kreidestil | **Flache Gouache mit Kreidekorn:** flache Farbflächen mit leicht trockenem Pinselrand (`#gouache`), Kreidesprenkel über dem Bild (`#tooth`), keine schwarzen Konturen; Cremegrund `#F4EAD5`, blassblaue Hügel `#C9DAE3`/`#AAC3D3`, Salbeiwiese `#A9B98C`; Blumen mit gepunkteter Mitte; Figuren als schlanke Erwachsene im Profil (Owner-Feedback: „zu kindlich“ vermeiden): kleiner Kopf mit Nase, geschlossenes Auge, rote Wange, Ohrring; Ringel-, Karo- oder Blümchenmuster, schmale Hosen/A-Röcke, kleine Schuhe, Gegenstand in der vorgestreckten Hand; übergroße Blumen vor den Beinen; Körnung bewusst fein und dezent (Owner: „zu stark“), Szenen dicht (ferne Bäumchen, Grashalme, Blumenvordergrund); Personenkarten auf dichtem Blumenmuster in Petrol `#2E5652`; gedeckte Palette (Mohnrot, Senf, Oliv, Lavendel, Hellblau); **App-Oberfläche** nach den Owner-Referenzen „App Style für Landgut“ (moderne Wellness-/Journal-Apps, Editorial-Layouts): warmer Greige-Grund `#ECE7E2`, weiße Karten mit großen Radien (24–32 px) ohne schwere Schatten, Gebiete als Pastellflächen (Wiese `#DFE8CF`, Haus `#F6D6D1`, Stall `#D6E4F2`, Acker `#FCE7B0`, Garten `#E3DCFB`, kräftige Typfarben `#7C9A4A`/`#D9735F`/`#5B86B5`/`#E2A21E`/`#8C74D6`), gelbe Pill-Knöpfe `#FDBA2C` mit dunkler Schrift `#1F1A17`, tiefes Lila `#4B3A6E` für „du bist dran“ und Hervorhebungen, große Titel. **Schrift** nach Owner-Referenz „Landgut Schrift“: Titel und große Zahlen in der kräftigen Serife Fraunces, Akzente (Untertitel „dein Traum vom Bauernhof.“ mit Schwung-Unterstrich, Lernspiel-Kapitel, „Warum?“) in oranger Handschrift Caveat, Fließtext/Bedienung in Outfit. Abgrenzung zu Drei Schwestern: dort Riso ohne Körnung-Sprenkel, Blumenstrauß statt Kopf, Pfirsichgrund, Fredoka – hier echte Gesichter und Kreidekorn |
 
 Die Referenzbilder selbst liegen bewusst nicht im Repo (fremde Illustrationen, das Repo
